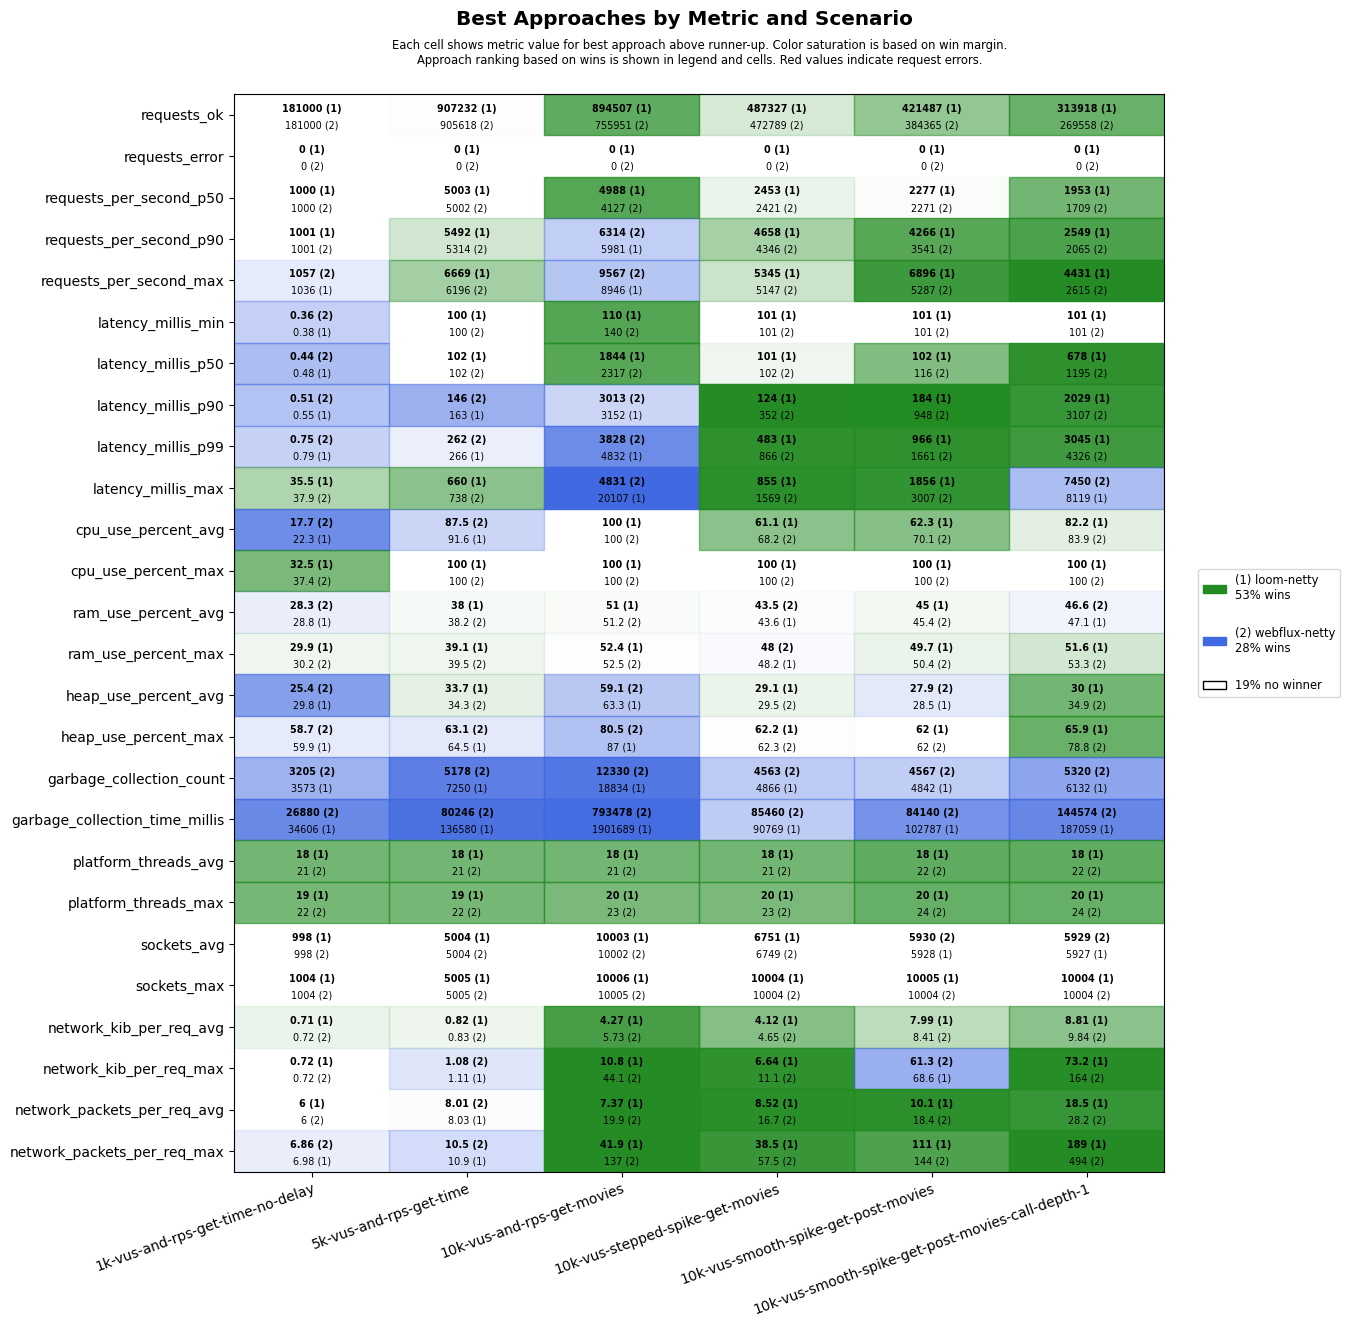
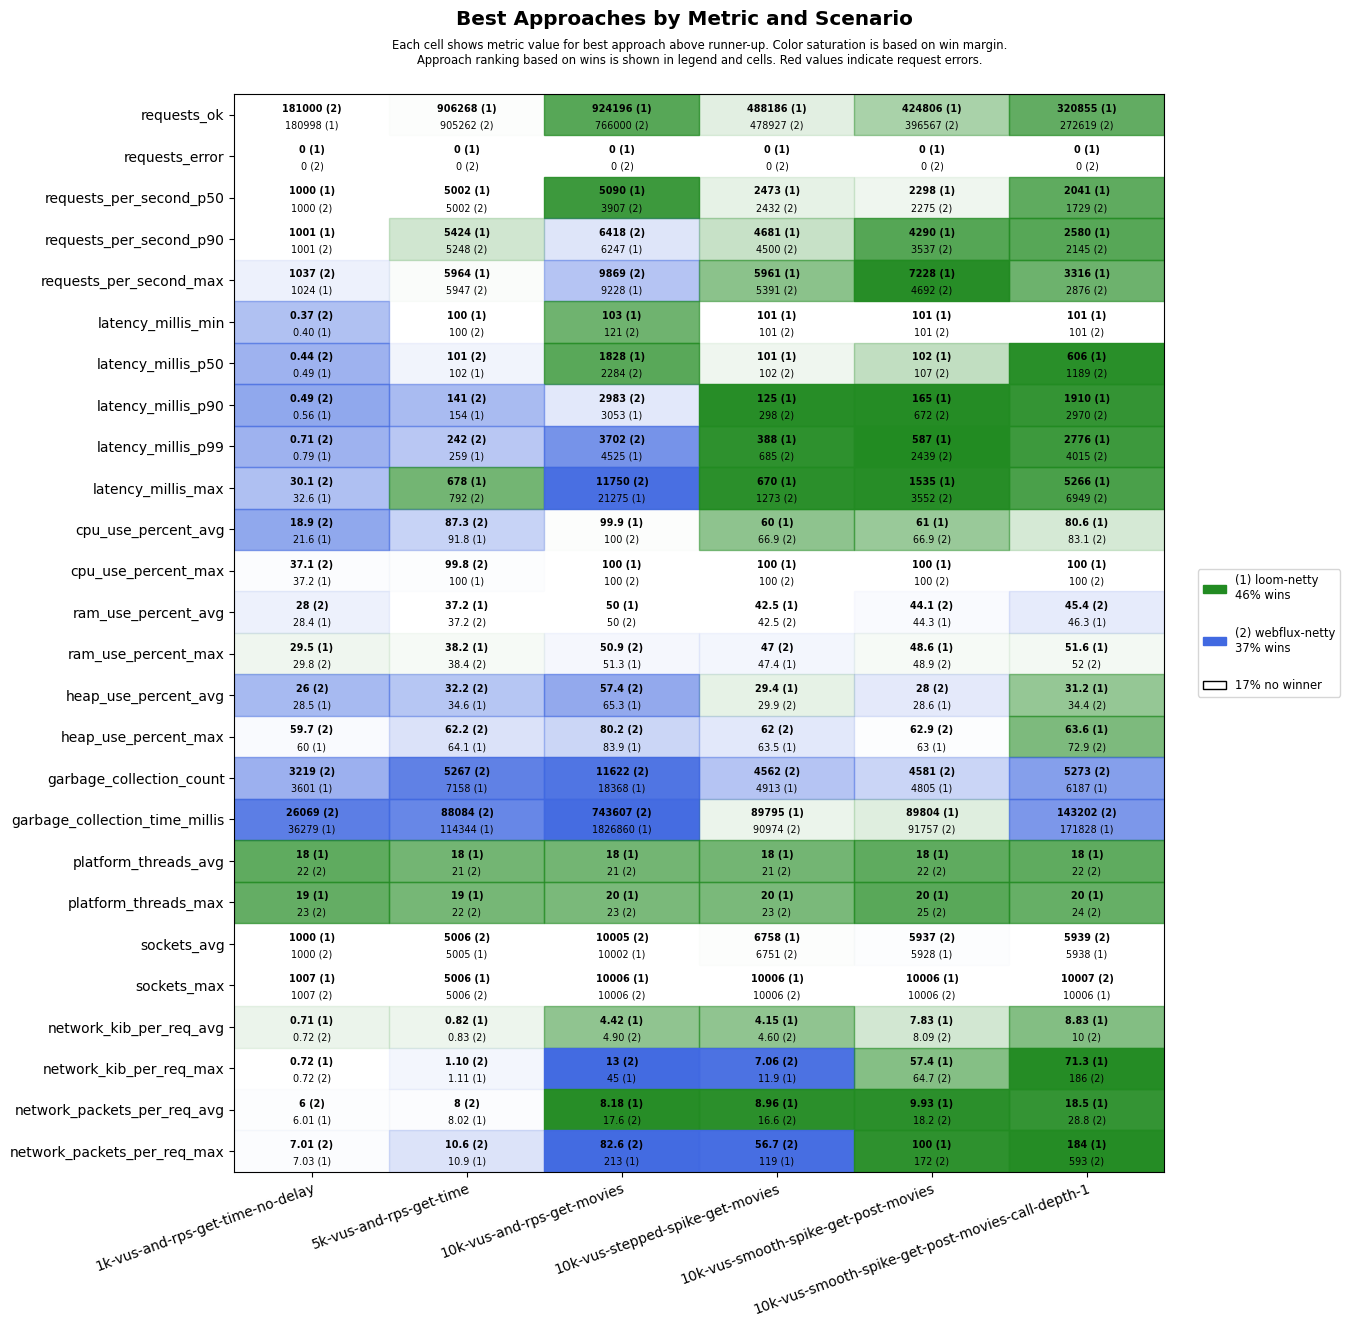
Apply automatic changes

diff --git a/results/ci/scenarios-ci/Ubuntu-22.04/java-24/results.md b/results/ci/scenarios-ci/Ubuntu-22.04/java-24/results.md
@@ -4,22 +4,22 @@
 
 | **Name**                | **Value** |
 |-------------------------|-----------|
-| **Start (UTC)** | 2025-07-03 13:33:08 |
-| **End (UTC)** | 2025-07-03 14:57:51 |
-| **Duration (hh:mm:ss)** | 01:24:43 |
+| **Start (UTC)** | 2025-08-02 03:27:39 |
+| **End (UTC)** | 2025-08-02 04:51:48 |
+| **Duration (hh:mm:ss)** | 01:24:09 |
 
 ## System Specs
 
 | **Name**                | **Value** |
 |-------------------------|-----------|
-| **Java** | OpenJDK 64-Bit Server VM Corretto-24.0.1.9.1 (build 24.0.1+9-FR, mixed mode, sharing) |
-| **Spring Boot** | 3.5.3 |
+| **Java** | OpenJDK 64-Bit Server VM Corretto-24.0.2.12.1 (build 24.0.2+12-FR, mixed mode, sharing) |
+| **Spring Boot** | 3.5.4 |
 | **Python** | 3.10.12 |
 | **OS** | Ubuntu 22.04.5 LTS |
-| **Kernel** | 6.8.0-1030-azure |
+| **Kernel** | 6.8.0-1031-azure |
 | **CPU** | AMD EPYC 7763 64-Core Processor |
 | **CPU Cores** | 4 |
-| **RAM** | 15Gi total, 11Gi available |
+| **RAM** | 15Gi total, 13Gi available |
 | **Disk** | 159G total, 98G available |
 
 ## Scenarios
